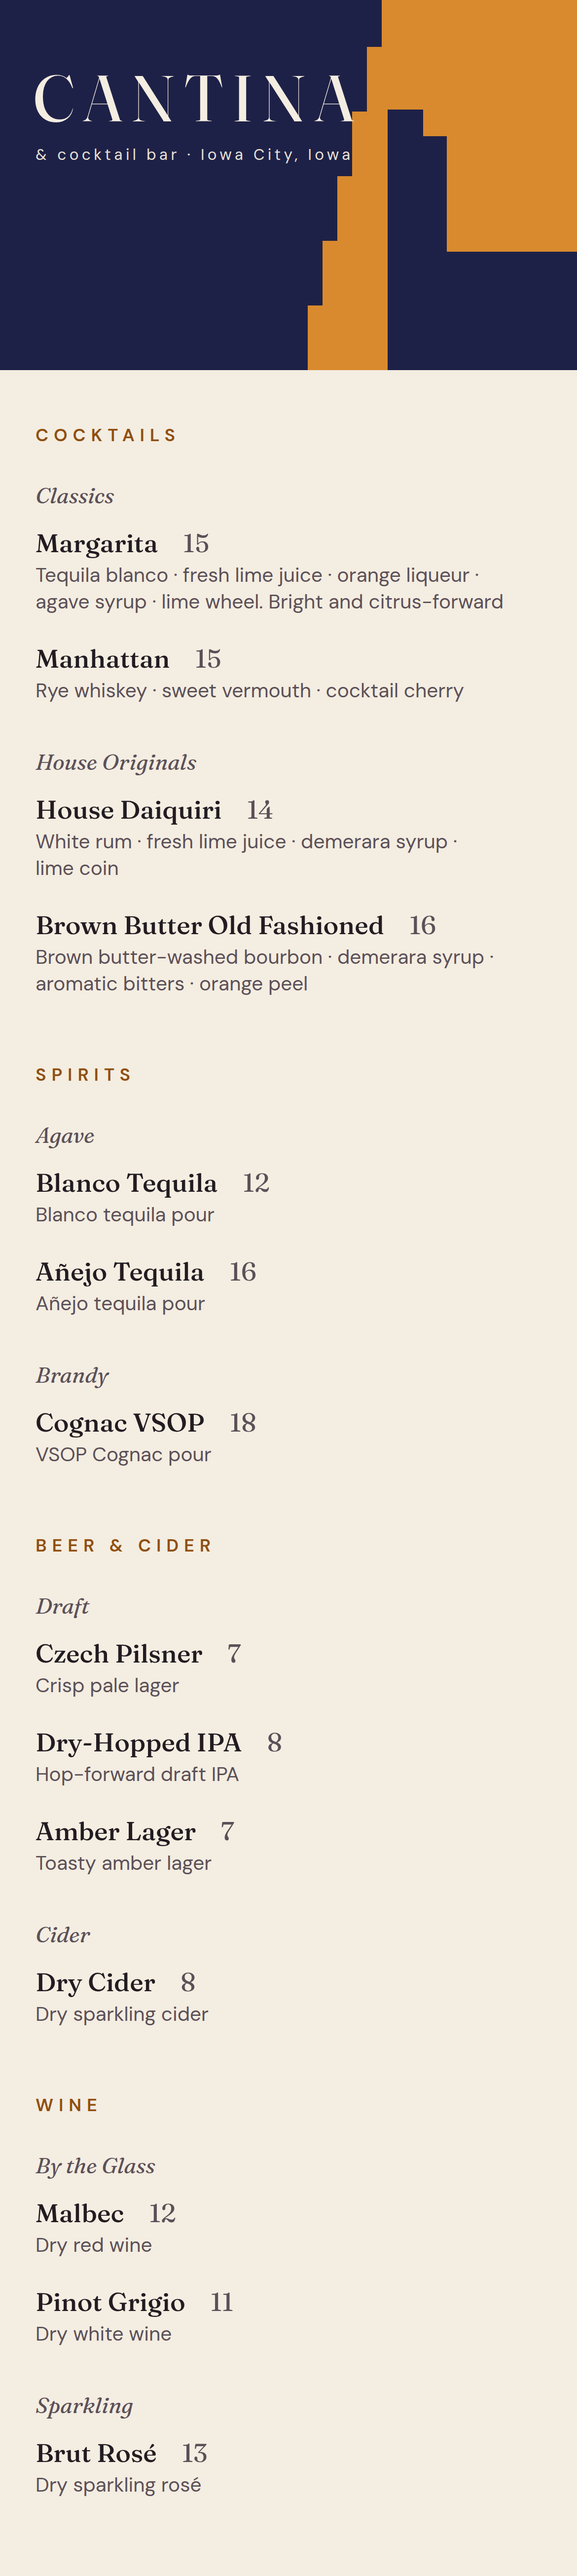
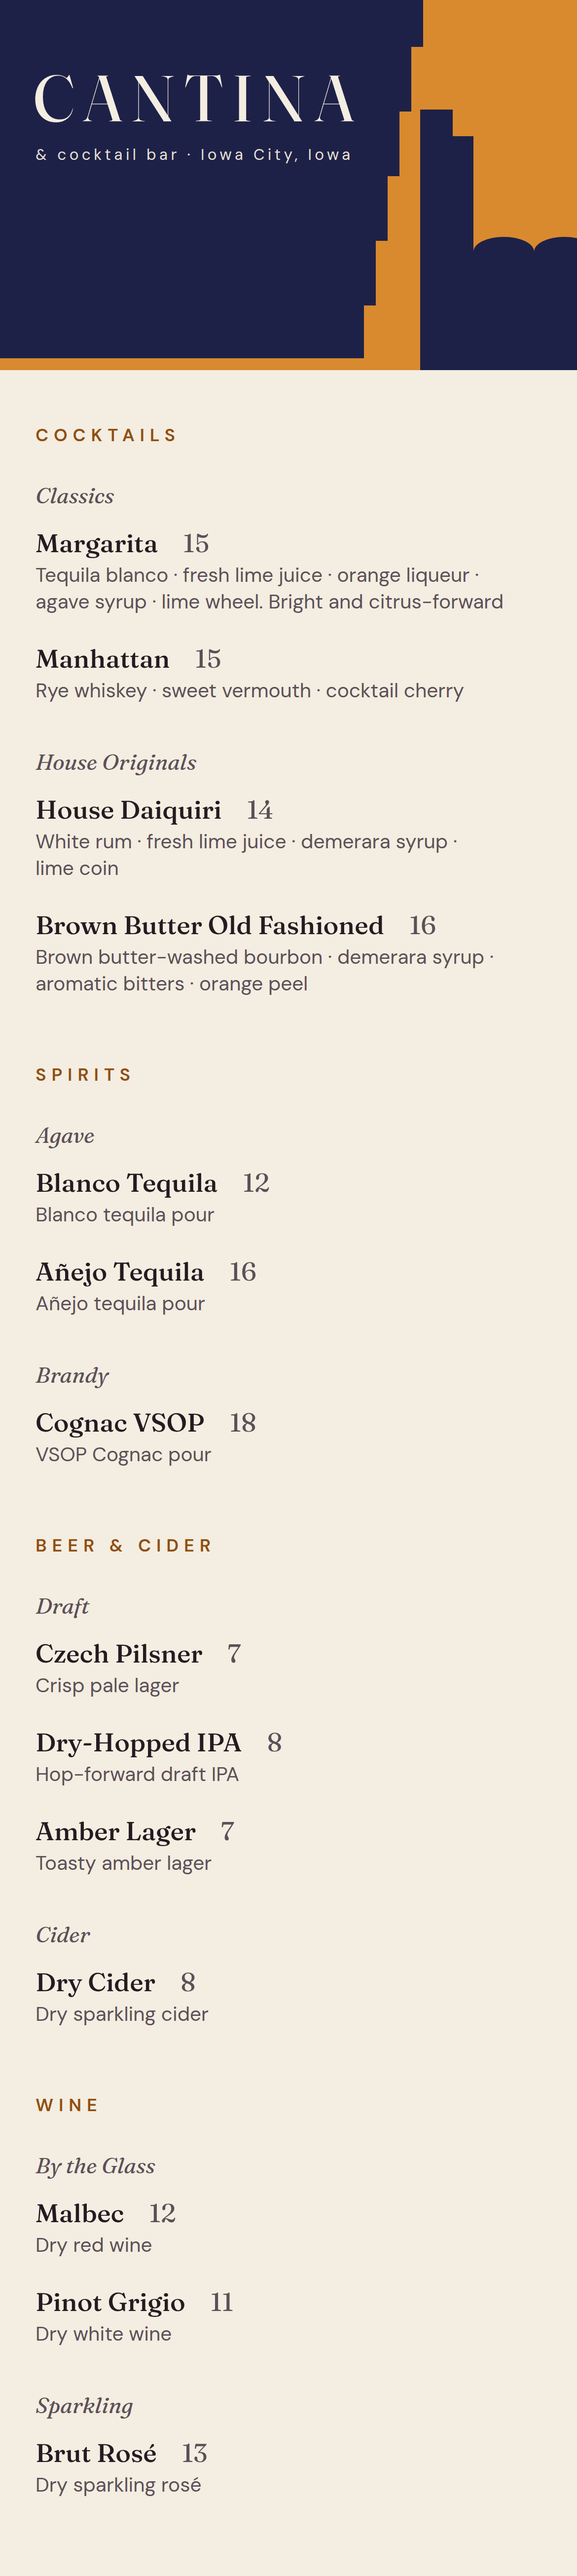
TEST-1: J4 build in progress
Claude-Session: https://claude.ai/code/session_0119q5CFNNK1HNw6Gy8QYqx9

Changed region(s): [[0.0, 0.0, 1.0, 0.1561]]

diff --git a/handoff/designs/test-1-iowa-city-cantina/explore-J4/.render-letter.html b/handoff/designs/test-1-iowa-city-cantina/explore-J4/.render-letter.html
@@ -21,7 +21,7 @@ h3{font:italic 400 var(--h3)/26px Fr;color:#5B5058;margin-bottom:6px}
 .row{display:grid;grid-template-columns:repeat(3,1fr);column-gap:24px;align-items:start;margin-top:var(--tiergap)}
 body.letter .page{width:816px;height:1056px;
   --m:60px;--mt:60px;--tw:696px;--rt:236px;--wm:76px;--wmfix:-3px;--subsz:12.5px;--subgap:22px;--h2:12.5px;--h3:15.5px;
-  --nm:18.5px;--ds:13.5px;--itgap:18px;--grpgap:26px;--tiergap:{TIERGAP}px}
+  --nm:18.5px;--ds:13.5px;--itgap:18px;--grpgap:26px;--tiergap:48px}
 body.letter .main{width:456px}
 body.letter .nm{white-space:nowrap}
 body.phone .page{width:390px;
@@ -30,8 +30,8 @@ body.phone .page{width:390px;
 body.phone .read{position:relative;top:0;padding:286px 0 52px;left:0;margin-left:24px}
 body.phone .row{display:block}
 body.phone .col+.col{margin-top:44px}
-</style></head><body class="phone"><div class="page" style="height:1740px">
-<svg class="art" width="390" height="1740" viewBox="0 0 390 1740" aria-hidden="true" style="position:absolute;left:0;top:0;overflow:visible"><rect x="-12" y="-12" width="414" height="262" fill="#1E2147"/><path d="M402.0,-12.0 L258.0,-12.0 L258.0,31.7 L248.0,31.7 L248.0,75.3 L238.0,75.3 L238.0,119.0 L228.0,119.0 L228.0,162.7 L218.0,162.7 L218.0,206.3 L208.0,206.3 L208.0,250.0 L402.0,250.0 Z" fill="#D98A2E"/><path d="M262.0,250.0 L262.0,92.0 L262.0,74.0 L286.0,74.0 L286.0,92.0 L302.0,92.0 L302.0,170.0 A25.0,10.0 0 0 1 352.0,170.0 A25.0,10.0 0 0 1 402.0,170.0 L402.0,250.0 Z" fill="#1E2147"/></svg>
+</style></head><body class="letter"><div class="page">
+<svg class="art" width="816" height="1056" viewBox="0 0 816 1056" aria-hidden="true" style="position:absolute;left:0;top:0;overflow:visible"><rect x="-12" y="-12" width="840" height="216" fill="#1E2147"/><path d="M828.0,-12.0 L520.0,-12.0 L520.0,24.0 L504.0,24.0 L504.0,60.0 L488.0,60.0 L488.0,96.0 L472.0,96.0 L472.0,132.0 L456.0,132.0 L456.0,168.0 L440.0,168.0 L440.0,204.0 L828.0,204.0 Z" fill="#D98A2E"/><path d="M556.0,634.0 L556.0,64.0 L556.0,34.0 L600.0,34.0 L600.0,64.0 L630.0,64.0 L630.0,300.0 A33.0,16.0 0 0 1 696.0,300.0 A33.0,16.0 0 0 1 762.0,300.0 A33.0,16.0 0 0 1 828.0,300.0 L828.0,634.0 Z" fill="#1E2147"/></svg>
 <header class="mast"><div class="wm">CANTINA</div><div class="sub">&amp; cocktail bar · Iowa City, Iowa</div></header>
 <main class="read">
 <section class="sec main" id="sec_cocktails"><h2>Cocktails</h2><div class="grp"><h3>Classics</h3><div class="it" data-id="beta_margarita"><div class="nm"><span class="n">Margarita</span> <span class="p">15</span></div><div class="ds">Tequila blanco · fresh lime juice · orange liqueur · agave syrup · lime wheel. <span class="nw">Bright and citrus-forward</span></div></div><div class="it" data-id="beta_manhattan"><div class="nm"><span class="n">Manhattan</span> <span class="p">15</span></div><div class="ds">Rye whiskey · sweet vermouth · cocktail cherry</div></div></div><div class="grp"><h3>House Originals</h3><div class="it" data-id="beta_daiquiri"><div class="nm"><span class="n">House Daiquiri</span> <span class="p">14</span></div><div class="ds">White rum · fresh lime juice · demerara syrup · lime coin</div></div><div class="it" data-id="beta_old_fashioned"><div class="nm"><span class="n">Brown Butter Old Fashioned</span> <span class="p">16</span></div><div class="ds">Brown butter-washed bourbon · demerara syrup · aromatic bitters · orange peel</div></div></div></section>

diff --git a/handoff/designs/test-1-iowa-city-cantina/explore-J4/build.py b/handoff/designs/test-1-iowa-city-cantina/explore-J4/build.py
@@ -152,7 +152,7 @@ def art_svg(W, H, Hz, G, P, flags, rule_x0=None):
 
 LETTER = dict(steps=6, run=16, glow_x_top=520, band=10, hx=556, hw=74, h_top=64, set_w=44, set_h=30,
               bins_top=300, bins_n=3, arc_d=16)
-PHONE = dict(steps=6, run=10, glow_x_top=258, band=8, hx=262, hw=40, h_top=92, set_w=24, set_h=18,
+PHONE = dict(steps=6, run=8, glow_x_top=286, band=8, hx=284, hw=36, h_top=92, set_w=22, set_h=18,
              bins_top=170, bins_n=2, arc_d=10)
 HZ_L, HZ_P = 204, 250
 
